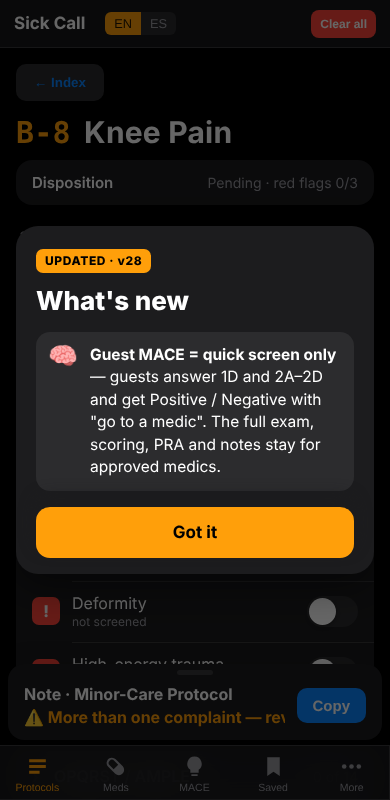
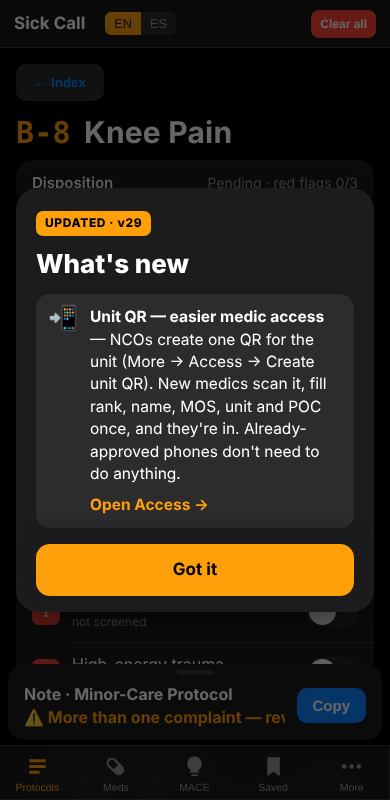
Unit QR medic access + revocation list (v29) / Acceso con QR de unidad + revocados (v29) (#70)
Signed unit QR invites with one-time medic sign-up via Tally; revoked.json checked on every open; v29.

Invitaciones firmadas con QR de unidad y registro único del médico por Tally; revoked.json revisado en cada apertura; v29.

Claude-Session: https://claude.ai/code/session_015dVcNB5Wifchtix1QkjYVg

Changed region(s): [[0.0308, 0.25, 0.9846, 0.7812]]

diff --git a/access.js b/access.js
@@ -19,16 +19,22 @@ const AC={
   async prvKey(b64){return crypto.subtle.importKey('pkcs8',AC.b64d(b64),{name:'ECDSA',namedCurve:'P-256'},false,['sign']);},
   async sign(obj,prvB64){const p=AC.enc(obj);const sig=await crypto.subtle.sign({name:'ECDSA',hash:'SHA-256'},await AC.prvKey(prvB64),new TextEncoder().encode(p));return p+'.'+AC.b64e(sig);},
   async verify(tok,pubB64){try{const[i,s]=String(tok).split('.');if(!i||!s)return null;const ok=await crypto.subtle.verify({name:'ECDSA',hash:'SHA-256'},await AC.pubKey(pubB64),AC.b64d(s),new TextEncoder().encode(i));return ok?AC.dec(i):null;}catch(e){return null;}},
-  revoked:id=>(ACCESS.REVOKED||[]).includes(id),
+  revoked:id=>!!id&&((ACCESS.REVOKED||[]).includes(id)||(AC.get('sc_rev')||[]).includes(id)),
   async verifyCert(tok){for(const r of ACCESS.ROOT_PUBS){const c=await AC.verify(tok,r);if(c&&c.t==='cert'&&!AC.revoked(c.id))return c;}return null;},
   async verifyApproval(tok){const p=AC.dec(String(tok).split('.')[0]);if(!p||p.t!=='ok'||AC.revoked(p.id))return null;
     if(p.c){const c=await AC.verifyCert(p.c);if(!c)return null;const a=await AC.verify(tok,c.pub);return a&&a.t==='ok'?Object.assign(a,{_by:c.u||''}):null;}
     for(const r of ACCESS.ROOT_PUBS){const a=await AC.verify(tok,r);if(a&&a.t==='ok')return Object.assign(a,{_by:'admin'});}return null;},
+  async verifyInvite(tok){const p=AC.dec(String(tok).split('.')[0]);if(!p||p.t!=='inv'||AC.revoked(p.id))return null;
+    if(p.c){const c=await AC.verifyCert(p.c);if(!c)return null;const a=await AC.verify(tok,c.pub);return a&&a.t==='inv'?Object.assign(a,{_by:c.u||''}):null;}
+    for(const r of ACCESS.ROOT_PUBS){const a=await AC.verify(tok,r);if(a&&a.t==='inv')return Object.assign(a,{_by:'admin'});}return null;},
   /* role on this device: 'root' | 'appr' | 'medic' | null */
   async role(){
     const rk=AC.get('sc_root');if(rk&&rk.prv&&ACCESS.ROOT_PUBS.includes(rk.pub))return{r:'root',u:'admin'};
     const ap=AC.get('sc_appr');if(ap&&ap.cert&&ap.prv){const c=await AC.verifyCert(ap.cert);if(c&&c.pub===ap.pub)return{r:'appr',u:c.u,cert:ap.cert,prv:ap.prv,id:c.id};}
-    const a=AC.get('sc_auth');if(a&&a.tok){const v=await AC.verifyApproval(a.tok);if(v&&v.d===AC.dev())return{r:'medic',u:v.u,by:v._by,iat:v.iat};AC.set('sc_auth',null);}
+    if(AC.revoked(AC.dev())){AC.set('sc_auth',null);return null;}
+    const a=AC.get('sc_auth');
+    if(a&&a.inv){const v=await AC.verifyInvite(a.inv);if(v&&a.d===AC.dev())return{r:'medic',u:(a.reg&&a.reg.unit)||v.u,by:v._by,iat:Math.round((a.at||0)/1000),reg:a.reg||null,via:'inv'};AC.set('sc_auth',null);return null;}
+    if(a&&a.tok){const v=await AC.verifyApproval(a.tok);if(v&&v.d===AC.dev())return{r:'medic',u:v.u,by:v._by,iat:v.iat};AC.set('sc_auth',null);}
     return null;}
 };
 let acRole=null;
@@ -55,11 +61,11 @@ async function accGate(force){
   acOv('<div class="mg-top"><span class="mg-k">68W · ADTMC</span><span class="mg-lang"><button class="'+(lg==='en'?'on':'')+'" onclick="acLang(\'en\')">EN</button><button class="'+(lg==='es'?'on':'')+'" onclick="acLang(\'es\')">ES</button></span></div>'
    +'<h2>Sick Call</h2>'
    +'<p class="mg-sub">'+L('For 68W medics, under provider supervision.','Para médicos 68W, bajo supervisión de un proveedor.')+' <b>'+L('Not for self-diagnosis.','No es para autodiagnóstico.')+'</b></p>'
-   +'<button class="mg-btn" onclick="acReqView(\'medic\')">🩺 '+L('I\'m a medic — request access','Soy médico — pedir acceso')+'</button>'
-   +'<button class="mg-btn sec" onclick="acHaveView()">🔑 '+L('I have an approval','Tengo una aprobación')+'</button>'
+   +'<button class="mg-btn" onclick="acHaveView()">🩺 '+L('I\'m a medic — scan unit QR','Soy médico — escanear QR de unidad')+'</button>'
+   +'<button class="mg-btn sec" onclick="acHaveView()">🔑 '+L('I have an approval or link','Tengo una aprobación o link')+'</button>'
    +'<button class="mg-btn sec" onclick="location.href=\'intake.html\'">🤒 '+L('I\'m a Soldier and I feel sick','Soy soldado y me siento mal')+'</button>'
    +'<button class="mg-btn ghost" onclick="acGuest()">👤 '+L('Continue as a guest','Continuar como invitado')+'<small>'+L('Reference tools only','Solo herramientas de referencia')+'</small></button>'
-   +'<div class="mg-links"><button onclick="acReqView(\'appr\')">'+L('NCO? Become an approver','¿NCO? Ser aprobador')+'</button>'+((typeof canInstall==='function'&&canInstall())?'<span>·</span><button onclick="installApp()">📲 '+L('Install app','Instalar app')+'</button>':'')+'</div>'
+   +'<div class="mg-links"><button onclick="acReqView(\'medic\')">'+L('No QR? Request access','¿Sin QR? Pedir acceso')+'</button><span>·</span><button onclick="acReqView(\'appr\')">'+L('NCO? Approver','¿NCO? Aprobador')+'</button>'+((typeof canInstall==='function'&&canInstall())?'<span>·</span><button onclick="installApp()">📲 '+L('Install app','Instalar app')+'</button>':'')+'</div>'
    +'<div class="mg-em">🚨 '+L('Emergency? Tell a medic now or call 911.','¿Emergencia? Avísale a un médico ya o llama al 911.')+'</div>');
 }
 function acLang(l){try{setLang(l);}catch(e){}accGate(true);}
@@ -93,18 +99,23 @@ async function acMakeReq(role){
 }
 function acHaveView(){
   acOv('<button class="ac-back" onclick="'+(acRole?'acClose()':'accGate(true)')+'">‹ '+L('Back','Atrás')+'</button><h2>'+L('Activate','Activar')+'</h2>'
-   +'<p>'+L('Scan the approval QR, or paste the link you received.','Escanea el QR de aprobación o pega el link que recibiste.')+'</p>'
+   +'<p>'+L('Scan your unit QR (or an approval), or paste the link you received.','Escanea el QR de tu unidad (o una aprobación), o pega el link que recibiste.')+'</p>'
    +'<button class="mg-btn" onclick="acScan()">📷 '+L('Scan QR','Escanear QR')+'</button>'
    +'<textarea id="acP" class="ac-in" rows="3" placeholder="'+L('Paste link here','Pega el link aquí')+'"></textarea>'
    +'<button class="mg-btn sec" onclick="acHandle(document.getElementById(\'acP\').value)">'+L('Activate','Activar')+'</button><div id="acMsg" class="ac-msg"></div>');
 }
-function acScan(){iqScan(t=>{if(/#(acc|areq|acert)=/.test(t)){acHandle(t);return true;}return false;});}
+function acScan(){iqScan(t=>{if(/#(acc|areq|acert|ainv)=/.test(t)){acHandle(t);return true;}return false;});}
 function acMsg(t,bad){const m=document.getElementById('acMsg');if(m){m.textContent=t;m.className='ac-msg'+(bad?' bad':'');}else iqToast(t);}
 /* ---------- handle any access link/text ---------- */
 async function acHandle(text){
-  text=String(text||'').trim();const m=text.match(/#?(acc|areq|acert|aroot)=([A-Za-z0-9_.-]+)/);
+  text=String(text||'').trim();const m=text.match(/#?(acc|areq|acert|aroot|ainv)=([A-Za-z0-9_.-]+)/);
   if(!m){acMsg(L('That is not a Sick Call access code.','Eso no es un código de acceso de Sick Call.'),true);return;}
   const k=m[1],v=m[2];
+  if(k==='ainv'){const iv=await AC.verifyInvite(v);
+    if(!iv){acMsg(L('Invalid or revoked unit QR.','QR de unidad inválido o revocado.'),true);acOv('<h2>'+L('QR not valid','QR no válido')+'</h2><p>'+L('This unit QR is invalid or was revoked. Ask your NCO for a new one.','Este QR de unidad no es válido o fue revocado. Pídele uno nuevo a tu NCO.')+'</p><button class="mg-btn" onclick="accGate(true)">'+L('Back','Atrás')+'</button>');return;}
+    if(iv.exp&&Date.now()/1000>iv.exp){acOv('<h2>'+L('QR expired','QR vencido')+'</h2><p>'+L('This unit QR expired. Ask your NCO for a new one.','Este QR de unidad ya venció. Pídele uno nuevo a tu NCO.')+'</p><button class="mg-btn" onclick="accGate(true)">'+L('Back','Atrás')+'</button>');return;}
+    const me=acRole||await AC.role();if(me){acOv('<h2>✅ '+L('Already active','Ya estás activo')+'</h2><p>'+L('This phone already has access.','Este teléfono ya tiene acceso.')+'</p><button class="mg-btn" onclick="acClose();renderMain()">'+L('Open the app','Abrir la app')+'</button>');return;}
+    acJoinView(v,iv);return;}
   if(k==='acc'){const a=await AC.verifyApproval(v);
     if(!a){acMsg(L('Invalid or revoked approval.','Aprobación inválida o revocada.'),true);return;}
     if(a.d!==AC.dev()){acOv('<h2>'+L('Open it in your app','Ábrelo en tu app')+'</h2><p>'+L('This approval belongs to the phone/app where the request was made. Open the Sick Call app on your home screen → “I have an approval” → paste this link.','Esta aprobación pertenece al teléfono/app donde se hizo la solicitud. Abre la app Sick Call de tu pantalla de inicio → “Tengo una aprobación” → pega este link.')+'</p><button class="mg-btn" onclick="acCopy(\''+acLink('acc',v)+'\',this)">'+L('Copy link','Copiar link')+'</button>');return;}
@@ -141,11 +152,12 @@ async function acApprove(v){
 function renderAccess(){
   const r=acRole;let h='<h2 class="tpl">🔐 '+L('Access','Acceso')+'</h2>';
   h+='<div class="field"><div class="lab"><span class="tag">🔐</span><span class="name">'+L('This phone','Este teléfono')+'</span></div><div style="font-size:15px">'
-   +(!r?L('Not approved yet.','Todavía no aprobado.'):r.r==='root'?L('🛡 Root approver (app owner)','🛡 Aprobador principal (dueño)'):r.r==='appr'?L('✅ Approver — ','✅ Aprobador — ')+acEsc(r.u):L('✅ Approved medic — ','✅ Médico aprobado — ')+acEsc(r.u))+'</div></div>';
+   +(!r?L('Not approved yet.','Todavía no aprobado.'):r.r==='root'?L('🛡 Root approver (app owner)','🛡 Aprobador principal (dueño)'):r.r==='appr'?L('✅ Approver — ','✅ Aprobador — ')+acEsc(r.u):L('✅ Approved medic — ','✅ Médico aprobado — ')+acEsc(r.u)+(r.reg?'<br><span style="color:var(--dim)">'+acEsc(r.reg.name||'')+' · '+acEsc(r.reg.mos||'')+'</span>':''))+'</div></div>';
   if(r&&(r.r==='root'||r.r==='appr')){
+    h+='<div class="algo-actions"><button onclick="acInvView()">📲 '+L('Create unit QR','Crear QR de unidad')+'</button></div>';
     h+='<div class="algo-actions"><button onclick="acScan()">📷 '+L('Scan a request','Escanear solicitud')+'</button><button class="ghost" onclick="acHaveView()">'+L('Paste a request','Pegar solicitud')+'</button></div>';
     const log=AC.get('sc_aplog')||[];
-    if(log.length)h+='<div class="field"><div class="lab"><span class="tag">📋</span><span class="name">'+L('My approvals','Mis aprobaciones')+'</span></div>'+log.slice(0,50).map(e=>'<div class="ac-log"><b>'+acEsc(e.n||'—')+'</b> · '+acEsc(e.u)+' · '+(e.r==='appr'?L('approver','aprobador'):L('medic','médico'))+'<span>'+new Date(e.at).toLocaleDateString()+' · ID '+e.id+'</span></div>').join('')+'</div>';
+    if(log.length)h+='<div class="field"><div class="lab"><span class="tag">📋</span><span class="name">'+L('My approvals','Mis aprobaciones')+'</span></div>'+log.slice(0,50).map(e=>'<div class="ac-log"><b>'+acEsc(e.n||'—')+'</b> · '+acEsc(e.u)+' · '+(e.r==='appr'?L('approver','aprobador'):e.r==='inv'?L('unit QR','QR de unidad'):L('medic','médico'))+'<span>'+new Date(e.at).toLocaleDateString()+' · ID '+e.id+'</span></div>').join('')+'</div>';
   }
   if(!r)h+='<div class="algo-actions"><button onclick="accGate(true)">'+L('Request access','Pedir acceso')+'</button><button class="ghost" onclick="acReqView(\'appr\')">'+L('Become an approver','Ser aprobador')+'</button></div>';
   if(r&&r.r==='medic')h+='<div class="algo-actions"><button class="ghost" onclick="acReqView(\'appr\')">'+L('I\'m a medic NCO — become an approver','Soy NCO de médicos — ser aprobador')+'</button></div>';
@@ -153,7 +165,82 @@ function renderAccess(){
   h+='<p class="note-hint foot">'+L('Approvals are signed and only work on the phone that asked for them. No names or IDs are stored on any server. To revoke someone, give the app owner the approval ID.','Las aprobaciones están firmadas y solo funcionan en el teléfono que las pidió. No se guardan nombres ni IDs en ningún servidor. Para revocar a alguien, dale al dueño de la app el ID de la aprobación.')+'</p>';
   return h;
 }
-function acHashCheck(){const h=location.hash||'';if(!/(acc|areq|acert|aroot)=/.test(h))return false;try{history.replaceState(null,'',location.pathname+location.search);}catch(e){}acHandle(h);return true;}
+function acHashCheck(){const h=location.hash||'';if(!/(acc|areq|acert|aroot|ainv)=/.test(h))return false;try{history.replaceState(null,'',location.pathname+location.search);}catch(e){}acHandle(h);return true;}
+
+/* ---------- Unit QR (invite) — one link per unit, medic registers once ----------
+   Invite (#ainv=) signed by root or approver: {t:'inv', id, u:unit, exp, n:maxPhones, iat, c:certToken|null}
+   The medic fills rank / name / MOS / unit / POC; the record goes to the owner's Tally form (SIGNUP_FORM) and only then is access granted.
+   QR de unidad: un link por unidad; el médico se registra una vez y el registro le llega al dueño por Tally. */
+const SIGNUP_FORM='5XKe2E';
+const AC_RANKS=['PVT','PV2','PFC','SPC','CPL','SGT','SSG','SFC','MSG','1SG','SGM','CSM','WO1','CW2','CW3','CW4','CW5','2LT','1LT','CPT','MAJ','LTC','COL','HN','HM3','HM2','HM1','HMC','A1C','SrA','SSgt','TSgt','CIV','CTR'];
+const AC_MOS=[['68W','68W Combat Medic'],['18D','18D SF Medical Sergeant'],['68C','68C Practical Nursing'],['68D','68D Operating Room'],['68E','68E Dental'],['68K','68K Medical Laboratory'],['68P','68P Radiology'],['68V','68V Respiratory'],['68B','68B Orthopedic'],['68F','68F Physical Therapy'],['68N','68N Cardiovascular'],['68U','68U ENT'],['68Y','68Y Eye'],['68X','68X Behavioral Health'],['68S','68S Preventive Medicine'],['65D','65D Physician Assistant'],['66','66 Nurse Corps'],['60/61/62','60/61/62 Physician'],['HM','Navy Hospital Corpsman (HM)'],['4N0','Air Force Aerospace Medical (4N0)'],['CIVMED','Civilian clinician (RN/PA/MD/NP/EMT)'],['NONE','My MOS is not listed']];
+function acJoinView(tok,iv){
+  const s=AC.get('sc_reg')||{};
+  acOv('<button class="ac-back" onclick="accGate(true)">‹ '+L('Back','Atrás')+'</button><h2>'+L('Medic sign-up','Registro de médico')+'</h2>'
+   +'<p class="mg-sub" style="margin-bottom:10px">'+L('Unit QR: ','QR de unidad: ')+'<b>'+acEsc(iv.u)+'</b>. '+L('Fill this once — it goes only to the app owner.','Llénalo una vez — solo le llega al dueño de la app.')+'</p>'
+   +'<div class="ac-row"><div style="flex:0 0 38%"><label class="ac-l">'+L('Rank','Rango')+'</label><select id="jR" class="ac-in"><option value="">—</option>'+AC_RANKS.map(r=>'<option'+(s.rank===r?' selected':'')+'>'+r+'</option>').join('')+'</select></div>'
+   +'<div style="flex:1"><label class="ac-l">'+L('Last name','Apellido')+'</label><input id="jL" class="ac-in" maxlength="30" autocomplete="family-name" value="'+acEsc(s.last||'')+'"></div></div>'
+   +'<label class="ac-l">'+L('First name + middle initial','Nombre + inicial')+'</label><input id="jF" class="ac-in" maxlength="30" autocomplete="given-name" placeholder="'+L('e.g. Michael A.','ej. Michael A.')+'" value="'+acEsc(s.first||'')+'">'
+   +'<label class="ac-l">MOS</label><select id="jM" class="ac-in" onchange="document.getElementById(\'jNo\').style.display=this.value===\'NONE\'?\'block\':\'none\'"><option value="">—</option>'+AC_MOS.map(m=>'<option value="'+m[0]+'"'+(s.mos===m[0]?' selected':'')+'>'+m[1]+'</option>').join('')+'</select>'
+   +'<div id="jNo" class="ac-msg bad" style="display:none">'+L('This app is for medical personnel. You can use guest mode.','Esta app es para personal médico. Puedes usar el modo invitado.')+' <button class="ac-skip" style="display:inline;width:auto;padding:0" onclick="acGuest()">'+L('Continue as a guest','Continuar como invitado')+'</button></div>'
+   +'<label class="ac-l">'+L('Unit','Unidad')+'</label><input id="jU" class="ac-in" maxlength="40" value="'+acEsc(s.unit||iv.u||'')+'">'
+   +'<label class="ac-l">'+L('Point of contact (NCOIC name, phone or email)','Punto de contacto (NCOIC, teléfono o correo)')+'</label><input id="jP" class="ac-in" maxlength="60" value="'+acEsc(s.poc||'')+'">'
+   +'<button class="mg-btn" onclick="acJoinNext(\''+tok+'\')">'+L('Continue','Continuar')+'</button><div id="acMsg" class="ac-msg"></div>');
+}
+function acJoinNext(tok){
+  const g=id=>(document.getElementById(id).value||'').trim();
+  const reg={rank:g('jR'),last:g('jL'),first:g('jF'),mos:g('jM'),unit:g('jU'),poc:g('jP')};
+  if(!reg.rank||!reg.last||!reg.first||!reg.mos||!reg.unit||!reg.poc){acMsg(L('Please fill in every field.','Llena todos los campos.'),true);return;}
+  if(reg.mos==='NONE'){acMsg(L('This app is for medical personnel.','Esta app es para personal médico.'),true);return;}
+  AC.set('sc_reg',reg);
+  const name=reg.rank+' '+reg.last.toUpperCase()+', '+reg.first;
+  const iv=AC.dec(String(tok).split('.')[0])||{};
+  const q=new URLSearchParams({alignLeft:'1',hideTitle:'1',transparentBackground:'1',dynamicHeight:'1',rank:reg.rank,name:name,mos:reg.mos,unit:reg.unit,poc:reg.poc,device:AC.dev(),invite:iv.id||'',by:iv.c?'approver':'admin'});
+  window._acJoin={tok,reg,name};
+  acOv('<button class="ac-back" onclick="acJoinView(\''+tok+'\',AC.dec(\''+String(tok).split('.')[0]+'\'))">‹ '+L('Back','Atrás')+'</button><h2>'+L('Confirm','Confirmar')+'</h2>'
+   +'<div class="ac-card"><div><span>'+L('Name','Nombre')+'</span><b>'+acEsc(name)+'</b></div><div><span>MOS</span><b>'+acEsc(reg.mos)+'</b></div><div><span>'+L('Unit','Unidad')+'</span><b>'+acEsc(reg.unit)+'</b></div><div><span>POC</span><b>'+acEsc(reg.poc)+'</b></div></div>'
+   +'<p class="mg-f" style="margin-top:6px">'+L('Tap “Confirm & enter” below. Needs internet.','Toca “Confirmar y entrar” abajo. Necesita internet.')+'</p>'
+   +'<iframe id="jFrame" class="ac-tally" src="https://tally.so/embed/'+SIGNUP_FORM+'?'+q.toString()+'" title="Sign-up" loading="eager"></iframe><div id="acMsg" class="ac-msg"></div>');
+}
+async function acJoinDone(){
+  const j=window._acJoin;if(!j)return;window._acJoin=null;
+  AC.set('sc_auth',{inv:j.tok,d:AC.dev(),reg:Object.assign({name:j.name},j.reg),at:Date.now()});acRole=await AC.role();
+  if(!acRole){acOv('<h2>'+L('Something went wrong','Algo salió mal')+'</h2><p>'+L('Try the QR again.','Intenta otra vez con el QR.')+'</p><button class="mg-btn" onclick="accGate(true)">OK</button>');return;}
+  acGuestOff();
+  acOv('<h2>✅ '+L('You\'re in','Ya entraste')+'</h2><p>'+L('Welcome, ','Bienvenido, ')+'<b>'+acEsc(j.name)+'</b>. '+L('This phone now has medic access.','Este teléfono ya tiene acceso de médico.')+'</p><button class="mg-btn" onclick="acClose();renderNav();renderMain()">'+L('Open the app','Abrir la app')+'</button>');
+}
+window.addEventListener('message',e=>{
+  if(!window._acJoin)return;if(!/^https:\/\/(www\.)?tally\.so$/.test(e.origin||''))return;
+  let d=e.data;if(typeof d==='string'){try{d=JSON.parse(d);}catch(x){return;}}
+  if(d&&d.event==='Tally.FormSubmitted')acJoinDone();
+  if(d&&d.event==='Tally.Resize'&&d.payload&&d.payload.height){const f=document.getElementById('jFrame');if(f)f.style.height=Math.min(600,Math.max(160,d.payload.height))+'px';}
+});
+function acInvView(){
+  const me=acRole;if(!me||(me.r!=='root'&&me.r!=='appr'))return;
+  acOv('<button class="ac-back" onclick="acClose();goRef(\'access\')">‹ '+L('Back','Atrás')+'</button><h2>'+L('Create unit QR','Crear QR de unidad')+'</h2>'
+   +'<p>'+L('Medics who open it register once (rank, name, MOS, unit, POC) and get access. Each sign-up reaches the app owner.','Los médicos que lo abran se registran una vez (rango, nombre, MOS, unidad, contacto) y entran. Cada registro le llega al dueño de la app.')+'</p>'
+   +'<label class="ac-l">'+L('Unit','Unidad')+'</label><input id="iU" class="ac-in" maxlength="40" value="'+acEsc(me.r==='appr'?me.u:'')+'"'+(me.r==='appr'?' readonly':'')+'>'
+   +'<label class="ac-l">'+L('Valid for','Válido por')+'</label><select id="iD" class="ac-in"><option value="7">7 '+L('days','días')+'</option><option value="14">14 '+L('days','días')+'</option><option value="30" selected>30 '+L('days','días')+'</option></select>'
+   +'<label class="ac-l">'+L('About how many medics?','¿Más o menos cuántos médicos?')+'</label><select id="iN" class="ac-in"><option>5</option><option>10</option><option selected>20</option><option>50</option></select>'
+   +'<p class="mg-f">'+L('Share it only in medic chats or post it where only medics see it.','Compártelo solo en chats de médicos o ponlo donde solo lo vean médicos.')+'</p>'
+   +'<button class="mg-btn" onclick="acInvMake()">'+L('Create QR','Crear QR')+'</button><div id="acMsg" class="ac-msg"></div>');
+}
+async function acInvMake(){
+  const me=acRole;const u=(document.getElementById('iU').value||'').trim().slice(0,40);if(!u){acMsg(L('Enter the unit.','Escribe la unidad.'),true);return;}
+  const days=parseInt(document.getElementById('iD').value,10)||30,n=parseInt(document.getElementById('iN').value,10)||20;
+  const id=AC.rid(),iat=Math.round(Date.now()/1000),exp=iat+days*86400;
+  const prv=me.r==='appr'?me.prv:AC.get('sc_root').prv;
+  const link=acLink('ainv',await AC.sign({t:'inv',id,u,exp,n,iat,c:me.r==='appr'?me.cert:null},prv));
+  const log=AC.get('sc_aplog')||[];log.unshift({id,n:L('Unit QR','QR de unidad')+' · '+days+'d · ~'+n,u,r:'inv',at:Date.now()});AC.set('sc_aplog',log.slice(0,300));
+  acOv('<h2>📲 '+L('Unit QR for ','QR de unidad para ')+acEsc(u)+'</h2><p>'+L('Valid until ','Válido hasta ')+'<b>'+new Date(exp*1000).toLocaleDateString()+'</b>. '+L('Medics scan it with the camera or tap the link.','Los médicos lo escanean con la cámara o tocan el link.')+'</p>'
+   +acShareBox(link,L('Sick Call — medic access for ','Sick Call — acceso de médicos para ')+u)
+   +'<p class="mg-f">ID: '+id+' — '+L('to revoke this QR, give this ID to the app owner.','para revocar este QR, dale este ID al dueño de la app.')+'</p><button class="mg-btn sec" onclick="acClose();goRef(\'access\')">'+L('Done','Listo')+'</button>');
+}
+/* Remote revocation list (revoked.json) — checked on open; cached for offline. / Lista de revocados remota. */
+function acRevSync(){if(!/^https?:/.test(location.protocol))return;
+  fetch('revoked.json?t='+Date.now(),{cache:'no-store'}).then(r=>r.ok?r.json():null).then(async j=>{if(!j||!Array.isArray(j.ids))return;AC.set('sc_rev',j.ids.slice(0,5000));
+    if(acRole&&acRole.r==='medic'){const r=await AC.role();if(!r){acRole=null;accGate(true);}}}).catch(()=>{});}
 
 /* init (runs after app.js) / inicio */
-setTimeout(()=>{try{if(!acHashCheck())accGate();}catch(e){}},0);
+setTimeout(()=>{try{if(!acHashCheck())accGate();}catch(e){}acRevSync();},0);
+document.addEventListener('visibilitychange',()=>{if(document.visibilityState==='visible')acRevSync();});

diff --git a/data/whatsnew.js b/data/whatsnew.js
@@ -3,6 +3,8 @@
    Add a new entry at the TOP for every feature release (same value as APP_VER). Keep it short: 1–3 items.
    go: optional button target — a tab/view name ('admeds', 'perfiles', 'more') or 'proto:J-3'. */
 const WHATSNEW=[
+ {v:'v29',items:[
+   {i:'📲',en:'<b>Unit QR — easier medic access</b> — NCOs create one QR for the unit (More → Access → Create unit QR). New medics scan it, fill rank, name, MOS, unit and POC once, and they\'re in. Already-approved phones don\'t need to do anything.',es:'<b>QR de unidad — acceso más fácil</b> — los NCOs crean un QR para la unidad (Más → Acceso → Crear QR de unidad). Los médicos nuevos lo escanean, llenan rango, nombre, MOS, unidad y contacto una vez, y entran. Los teléfonos ya aprobados no tienen que hacer nada.',go:'access',btn:['Open Access','Abrir Acceso']}]},
  {v:'v28',items:[
    {i:'🧠',en:'<b>Guest MACE = quick screen only</b> — guests answer 1D and 2A–2D and get Positive / Negative with "go to a medic". The full exam, scoring, PRA and notes stay for approved medics.',es:'<b>MACE de invitado = solo tamizaje</b> — el invitado contesta 1D y 2A–2D y recibe Positivo / Negativo con "ve con un médico". El examen completo, puntajes, PRA y notas siguen siendo para médicos aprobados.'}]},
  {v:'v27',items:[

diff --git a/app.js b/app.js
@@ -2758,7 +2758,7 @@ async function tryUnlock(){
 }
 function lockNow(){if(settings.pin){document.getElementById('lock').style.display='flex';}}
 function showLockIfNeeded(){if(settings.pin)document.getElementById('lock').style.display='flex';}
-const APP_VER='v28';
+const APP_VER='v29';
 function updateApp(b){
   if(b){b.disabled=true;b.textContent=L('Updating…','Actualizando…');}
   const go=()=>{location.href=location.pathname+'?u='+Date.now();};
@@ -3092,7 +3092,7 @@ document.body.style.fontSize=fsBase+'px';showLockIfNeeded();
 if(ad.pid&&getP(ad.pid)){const _m=protoTpl(ad.pid);cur=_m.tid;view='tpl';}else{ad.pid=null;view='adtmc';}
 iqHash();
 renderNav();renderMain();renderNote();
-window.addEventListener('hashchange',()=>{if(/iq=/.test(location.hash)){iqHash();renderNav();renderMain();}else if(/(acc|areq|acert|aroot)=/.test(location.hash))acHashCheck();});
+window.addEventListener('hashchange',()=>{if(/iq=/.test(location.hash)){iqHash();renderNav();renderMain();}else if(/(acc|areq|acert|aroot|ainv)=/.test(location.hash))acHashCheck();});
 const _pi=document.getElementById('ptIn'); if(_pi)_pi.value=patient;
 setLang(LANG);
 

diff --git a/sw.js b/sw.js
@@ -1,4 +1,4 @@
-const C='sickcall-v28';
+const C='sickcall-v29';
 const FILES=['./','index.html','style.css','app.js','data/protocols.js','data/meds.js','data/plans.js','data/notetags.js','data/howto.js','data/es.js','manifest.json','vendor/pdf-lib.min.js','forms/DD689.pdf','data/intake.js','intake.html','poster.html','vendor/qrcode.min.js','vendor/jsQR.min.js','access.js','data/access.js','data/medinfo.js','data/pfb.js','data/whatsnew.js','icons/icon-192.png','icons/icon-512.png','icons/apple-touch-icon.png'];
 self.addEventListener('install',e=>{e.waitUntil(caches.open(C).then(c=>c.addAll(FILES.map(f=>new Request(f,{cache:'reload'})))).then(()=>self.skipWaiting()));});
 self.addEventListener('activate',e=>{e.waitUntil(caches.keys().then(k=>Promise.all(k.filter(x=>x!==C).map(x=>caches.delete(x)))).then(()=>self.clients.claim()));});

diff --git a/style.css b/style.css
@@ -776,3 +776,7 @@ body.guest #aside,body.guest #mobileNoteBtn,body.guest #tabbar button[data-v="ad
 /* Guest MACE (v28) */
 .guest-mace{font-size:14px;color:var(--dim);margin:2px 4px 6px}
 .gm-neg{background:var(--panel);border-radius:14px;padding:12px 14px;font-size:14.5px;line-height:1.5;margin:10px 0}
+/* Unit QR sign-up (v29) / Registro con QR de unidad */
+#mgOv select.ac-in{appearance:none;-webkit-appearance:none;background-image:linear-gradient(45deg,transparent 50%,var(--dim) 50%),linear-gradient(135deg,var(--dim) 50%,transparent 50%);background-position:calc(100% - 18px) 55%,calc(100% - 12px) 55%;background-size:6px 6px;background-repeat:no-repeat;padding-right:30px}
+#mgOv .ac-row>div .ac-in{margin-top:0}
+#mgOv .ac-tally{width:100%;height:220px;border:0;border-radius:14px;background:var(--panel);margin-top:8px}

diff --git a/CHANGELOG.md b/CHANGELOG.md
@@ -4,6 +4,8 @@ Bilingual summary of everything added or fixed, newest first. PR numbers refer t
 Resumen bilingüe de todo lo agregado o corregido, lo más nuevo primero. Los números de PR son de este repositorio.
 
 ## Unreleased / Próximo
+- **Unit QR for medic access:** the owner or an NCO approver creates a signed unit QR/link (More → Access → Create unit QR; valid 7/14/30 days). A medic scans it, fills rank, last/first name, MOS (medical MOS list only), unit and point of contact, taps "Confirm & enter" and has access. Each sign-up (with device ID and QR ID) goes to the owner's Tally form "Sick Call — Medic sign-up". Revocation without a new release: add a device ID, approval ID or QR ID to `revoked.json`; phones check it every time the app opens. Phones approved the old way keep working; the request/approval path stays as a fallback.
+  **QR de unidad para acceso de médicos:** el dueño o un NCO aprobador crea un QR/link firmado de la unidad (Más → Acceso → Crear QR de unidad; válido 7/14/30 días). El médico lo escanea, llena rango, apellido/nombre, MOS (solo MOS médicos), unidad y punto de contacto, toca "Confirmar y entrar" y ya tiene acceso. Cada registro (con ID del teléfono y del QR) llega al formulario de Tally del dueño "Sick Call — Medic sign-up". Revocar sin versión nueva: agrega el ID del teléfono, de la aprobación o del QR a `revoked.json`; los teléfonos lo revisan cada vez que se abre la app. Los teléfonos aprobados a la antigua siguen funcionando; la solicitud/aprobación queda como respaldo.
 - **Guest MACE is a quick screen only:** in guest mode MACE shows just 1D and 2A–2D and a Positive / Negative result telling the person to go to a medic (no driving, PT or weapons if positive; warning signs if negative). Cognitive and neuro exam, VOMS, summary, notes, PRA and coding are hidden.
   **MACE de invitado solo tamizaje:** en modo invitado el MACE muestra solo 1D y 2A–2D y un resultado Positivo / Negativo que manda a la persona con un médico (sin manejar, PT ni armas si es positivo; señales de alarma si es negativo). Se ocultan el examen cognitivo y neuro, VOMS, resumen, notas, PRA y códigos.
 - **MACE result card pinned:** the screening card (result, answered count, cognitive/neuro/VOMS) stays at the top while scrolling.

diff --git a/CONTRIBUTING.md b/CONTRIBUTING.md
@@ -24,5 +24,5 @@ For every release with a new feature, add an entry at the **top** of `data/whats
 En cada versión con algo nuevo, agrega una entrada **arriba** en `data/whatsnew.js` (mismo `v` que `APP_VER`, 1–3 puntos cortos, EN + ES). Los médicos la ven una vez en la ventana "Novedades" después de actualizar.
 
 ## Medic access / Acceso de médicos
-`data/access.js` holds the root public key(s), the revocation list and the enforcement date. The root **private** key is never committed — it lives only on the owner's phone (More → Access). To revoke an approver or a single approval, add its ID to `REVOKED` and release a new version.
-`data/access.js` guarda la(s) llave(s) públicas raíz, la lista de revocados y la fecha de obligatoriedad. La llave **privada** raíz nunca se sube — solo vive en el teléfono del dueño. Para revocar, agrega el ID a `REVOKED` y publica una versión nueva.
+`data/access.js` holds the root public key(s), the revocation list and the enforcement date. The root **private** key is never committed — it lives only on the owner's phone (More → Access). To revoke an approver, a single approval, a unit QR or a phone (device ID from the Tally sign-up), add the ID to `revoked.json` (`{"ids":[...]}`) — no new version needed; apps check it on every open. `REVOKED` in `data/access.js` still works but needs a release.
+`data/access.js` guarda la(s) llave(s) públicas raíz, la lista de revocados y la fecha de obligatoriedad. La llave **privada** raíz nunca se sube — solo vive en el teléfono del dueño. Para revocar a un aprobador, una aprobación, un QR de unidad o un teléfono (ID del teléfono del registro en Tally), agrega el ID a `revoked.json` — no hace falta versión nueva; las apps lo revisan cada vez que se abren.
